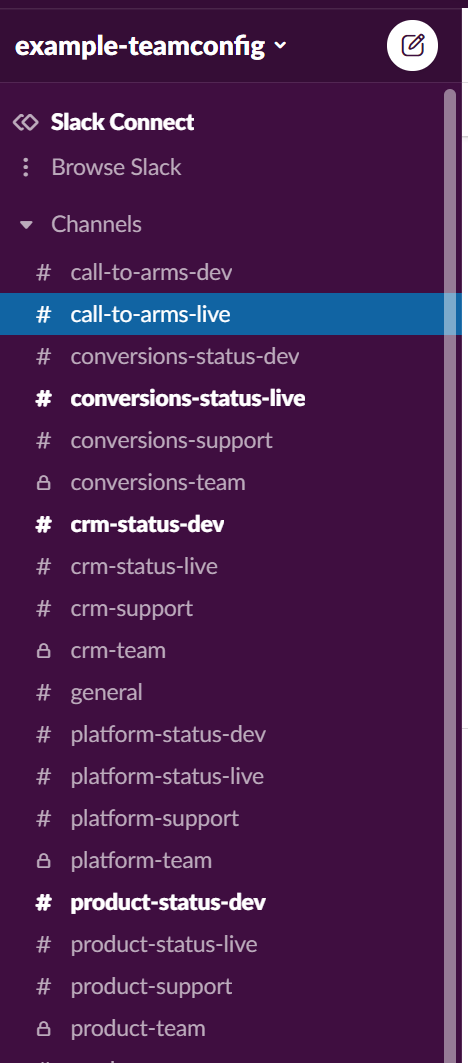
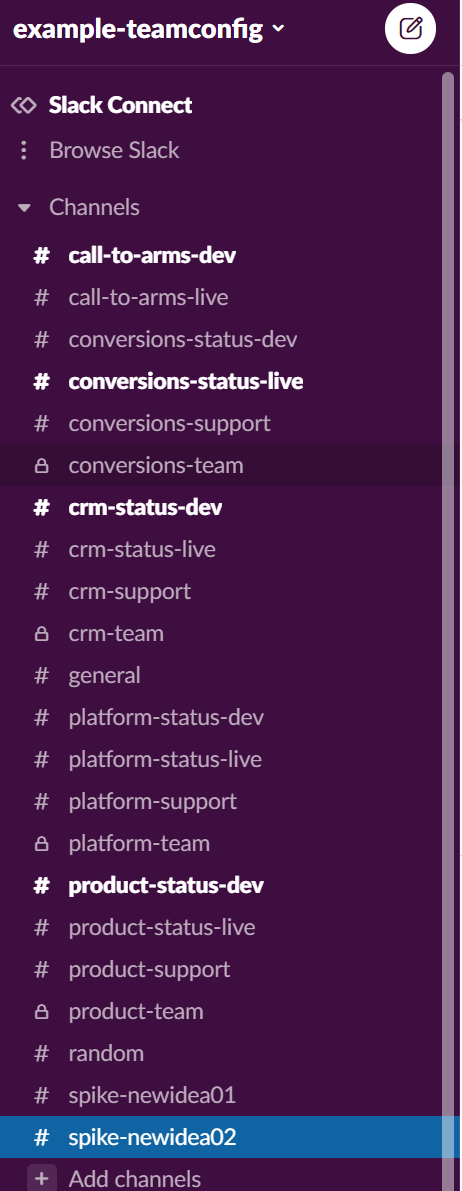
updated readme and slack picture

Changed region(s): [[0.0, 0.0, 1.0, 1.0], [0.8182, 0.0, 0.9394, 0.0931]]

diff --git a/ReadMe.md b/ReadMe.md
@@ -1,4 +1,5 @@
 - [Description](#description)
+- [Why do this?](#why-do-this)
 - [Example Team Implementation](#example-team-implementation)
 - [Example Communication Strategy](#example-communication-strategy)
 - [Dependencies](#dependencies)
@@ -6,27 +7,41 @@
   - [How to Validate Teams Schema](#how-to-validate-teams-schema)
   - [How to Generate Documentation](#how-to-generate-documentation)
   - [How to Add Teams](#how-to-add-teams)
+  - [How to Amend Teams](#how-to-amend-teams)
   - [How to Amend Schema](#how-to-amend-schema)
   - [How to Style Documentation](#how-to-style-documentation)
 
 ## Description
 
-This product aims to programtically create a Teams API for an entire organisation based on the [Team API](https://github.com/TeamTopologies/Team-API-template) put forward by [team topologies](https://teamtopologies.com/).
-From this information and schema the goal is to validate the team setup based on business rules and also create automatic documentation.
-The schema for the teams can be found in [team.schema.json](/teams/schema/team.schema.json) and an example implementation of team in [conversions_team.json](/teams/conversions_team.json).
-The example documentation this produces can be found in [docs/index.html](docs/index.html) to see the raw html, or to see it rendered as it currently is in the repo go [here](https://htmlpreview.github.io/?https://raw.githubusercontent.com/griff182uk/teamconfig/master/docs/index.html).
+This product aims to programtically create a Teams API for an entire organisation based on the [Team API](https://github.com/TeamTopologies/Team-API-template) put forward by [team topologies](https://teamtopologies.com/) and starting to take into consideration the required layer of abstraction across a multi-vendor ecosystem of tooling as discussed in [project to product](https://projecttoproduct.org/).
+From this information and a schema the goal is to validate the team setup based on business rules and also create automatic documentation.
+The schema for the teams can be found in [team.schema.json](/teams/schema/team.schema.json) and an example implementation of a team in [conversions_team.json](/teams/conversions_team.json).
+The example documentation this codebase produces can be found as raw html in [docs/index.html](docs/index.html), or to see it rendered as it currently is as a webpage in the repo go [here](https://htmlpreview.github.io/?https://raw.githubusercontent.com/griff182uk/teamconfig/master/docs/index.html). This index page is now a pointer to each individual page, a [search method](https://github.com/griff182uk/teamconfig/issues/3) is on the current issues list along with making the solution easier on the eye.
+
+## Why do this?
+
+- **Abstraction for a Consistent Viewpoint** - In the modern technical ecosystem there are a huge number of tools and vendors. Whether your organisation is going through a slow transition phase from one set of tooling to another, or whether different parts of your organisation use different toolsets permanently, configuration of consistent models of communication, knowledge bases, workloads and team makeup can provide a consistent viewpoint over time despite the upheaval underneath. By keeping the layer of abstraction thin, as per the [schema](/teams/schema/team.schema.json) proposed, then the detail can be held locally and managed by the separate teams. All the local teams have to do is ensure that their schema is maintained and they adhere to the minimal strategic rules proposed centrally (e.g. the [example communication strategy](#example-communication-strategy)).
+- **Programatically Represent your Organisation** - The [team schema](/teams/schema/team.schema.json) can provide the right properties and enums you require for centralising terminology required across your ecosystem that is agnostic to any implementation. It purely represents your organisation and can be called upon when needed. For example a Powershell module (see [open issue](https://github.com/griff182uk/teamconfig/issues/9)) could be added that utilises the schema and ensures only the correct tags are applied to resources either from team name property enums or potentially "cost centre" if this were added to the schema, or anything else relevant. Therefore as an example, regardless of whether your organisation was using AWS, Azure or Google as a cloud vendor, it could still reference the one consistent representation of your organisation via the teamconfig to validate and provide consistency.
+- **Single Point of Responsibility** - A number of organisations document their services and responsibilities in documents that proliferate and that cannot be referenced in code, this makes it difficult to programatically link a team with the code they are maintaining. This leads to difficulty in identifying responsibility lines (e.g. difficulty in tagging consistently as mentioned in point 2) or simply duplication and mistrust as no single source of truth has been committed to.
 
 ## Example Team Implementation
 
-The example team implementation was extracted from performing a simulated event storming exercise on a fictional company that simply:
+The [example team implementation] in this codebase was extracted by performing a simulated event storming exercise on a fictional company that simply:
 
-- Activates Users
+- Activates Accounts
 - Configures Products
 - Generates Leads
 - Evaluates Offline Purchases
+- Contacts Customers
 
-The outcome of this event storming exercise was carried out in [Miro](https://miro.com) and can be found [here](https://miro.com/app/board/o9J_l5MkTHM=/) along with the final groupings of bounded contexts to teams. This was generated from this [Miro Event Storming](https://miro.com/miroverse/event-storming/) template.
-This is purely fictional for an example implementation and your teams and bounded context setup would require much further thought and design. For further information on event storming please see [here](https://www.eventstorming.com/) or on domain driven design see [here](https://martinfowler.com/bliki/DomainDrivenDesign.html). Once you have the outcomes from these though the principal of the team API setup proposed in this codebase should still hold true.
+The outcome of this event storming exercise was carried out in [Miro](https://miro.com) and can be found [here](https://miro.com/app/board/o9J_l5MkTHM=/) along with the final groupings of bounded contexts to teams. This was generated from this [Miro Event Storming](https://miro.com/miroverse/event-storming/) template. The teams determined were more arbitrary than by insight as the organisation does not exist, but they resulted in:
+
+- [Product Team](https://htmlpreview.github.io/?https://raw.githubusercontent.com/griff182uk/teamconfig/master/docs/product_team.html)
+- [Conversions Team](https://htmlpreview.github.io/?https://raw.githubusercontent.com/griff182uk/teamconfig/master/docs/conversions_team.html)
+- [CRM Team](https://htmlpreview.github.io/?https://raw.githubusercontent.com/griff182uk/teamconfig/master/docs/crm_team.html)
+- [Platform Team](https://htmlpreview.github.io/?https://raw.githubusercontent.com/griff182uk/teamconfig/master/docs/platform_team.html)
+
+This is purely fictional for an example implementation and anything like this should be given great thought, care and collaboration within your organisation. The actual teams and bounded context you setup would require much further thought and design. For further information on event storming please see [here](https://www.eventstorming.com/) or on domain driven design see [here](https://martinfowler.com/bliki/DomainDrivenDesign.html). Once you have the outcomes from these though the principal of the team API setup proposed in this codebase should still hold true.
 
 ## Example Communication Strategy
 
@@ -46,6 +61,10 @@ While the aspiration is to be able to localise the noise created by deployments 
 
 - **call-to-arms-live** - The channel for live issues requiring everyones attention to resolve. **This would be a channel that oncall would be integrated with.**
 - **call-to-arms-dev** - The channel for development issues requiring everyones attention to resolve.
+
+There will be times when a new idea or team is proposed but it may never become a fully fledged team, or has too little information at that point to become part of your team configuration. For these "spike" channels can be created until they are regarded as successful and become true components of your organisation where they will be added to your configuration. These should be monitored and committed or removed as soon as their acceptance or faiure is established.
+
+- **spike-{proposal}** - The channel for all aspects of the new proposal.
 
 An example implementation in slack of what this would look like can be seen below:
 <img src="img/slack.png"/>
@@ -69,12 +88,14 @@ venv\scripts\activate
 
 ### How to Validate Teams Schema
 
-- Within your virtual python environment, open a terminal and run [app/validate.py](app/validate.py). This should produce no errors and return the message "Schema validation passed".
+- Within your virtual python environment, open a terminal and run [app/validate.py](app/validate.py). This should produce no errors and evebtually return the message "Schema validation passed".
 
 ```
 (venv) D:\repos\teamconfig>app\validate.py      
 Schema validation passed.
 ```
+
+If there are any legitimate schema errors please fix your team implementation. If you need to add missing enums that are now part of your organisation please go to ["How to Amend Schema"](#how-to-amend-schema).
 
 ### How to Generate Documentation
 
@@ -93,9 +114,12 @@ To preview this on github itself you can use this [example](https://htmlpreview.
 
 ### How to Add Teams
 
-To add a team you need to add information to a team to this folder, following an example of a team already present, that meets the schema schema provided here.
-Once you have added a team you should [validate](#how-to-validate-teams-schema) the teams against the schema again to ensure no rules have been broken.
+To add a team you need to add information to a new team to in the teams folder. You can copy an [example](/teams/conversions_team.json) of a team already present as a good starting point, that meets the [schema](/teams/schema/team.schema.json) provided, rename the file and start amending the schema.
+Once you have added a team you should [validate](#how-to-validate-teams-schema) the teams against the schema again to ensure no rules have been broken. If there are any legitimate schema errors please fix your team implementation. If you need to add missing enums that are now part of your organisation please go to ["How to Amend Schema"](#how-to-amend-schema).
 
+### How to Amend Teams
+
+To amend a team implementation simply open the relevant file in the teams folder, then edit the properties you require ensuring that you adhere to the [schema](/teams/schema/team.schema.json). When complete again perform [validation](#how-to-validate-teams-schema)). If you need to add missing enums that are now part of your organisation please go to ["How to Amend Schema"](#how-to-amend-schema).
 ### How to Amend Schema
 
 You may need to amend the [schema](/teams/schema/team.schema.json)) to meet local needs, particularly the values available in the lookups for different properties.
@@ -137,4 +161,4 @@ You can take this approach to any of the enums you may need to add to the schema
 
 ### How to Style Documentation
 
-If you want to amend the style of the documentation, edit the [docs/docs.css](docs/docs.css) file with the styling you require.
+If you want to amend the style of the documentation, edit the [docs/docs.css](docs/docs.css) file with the CSS styling you require.
